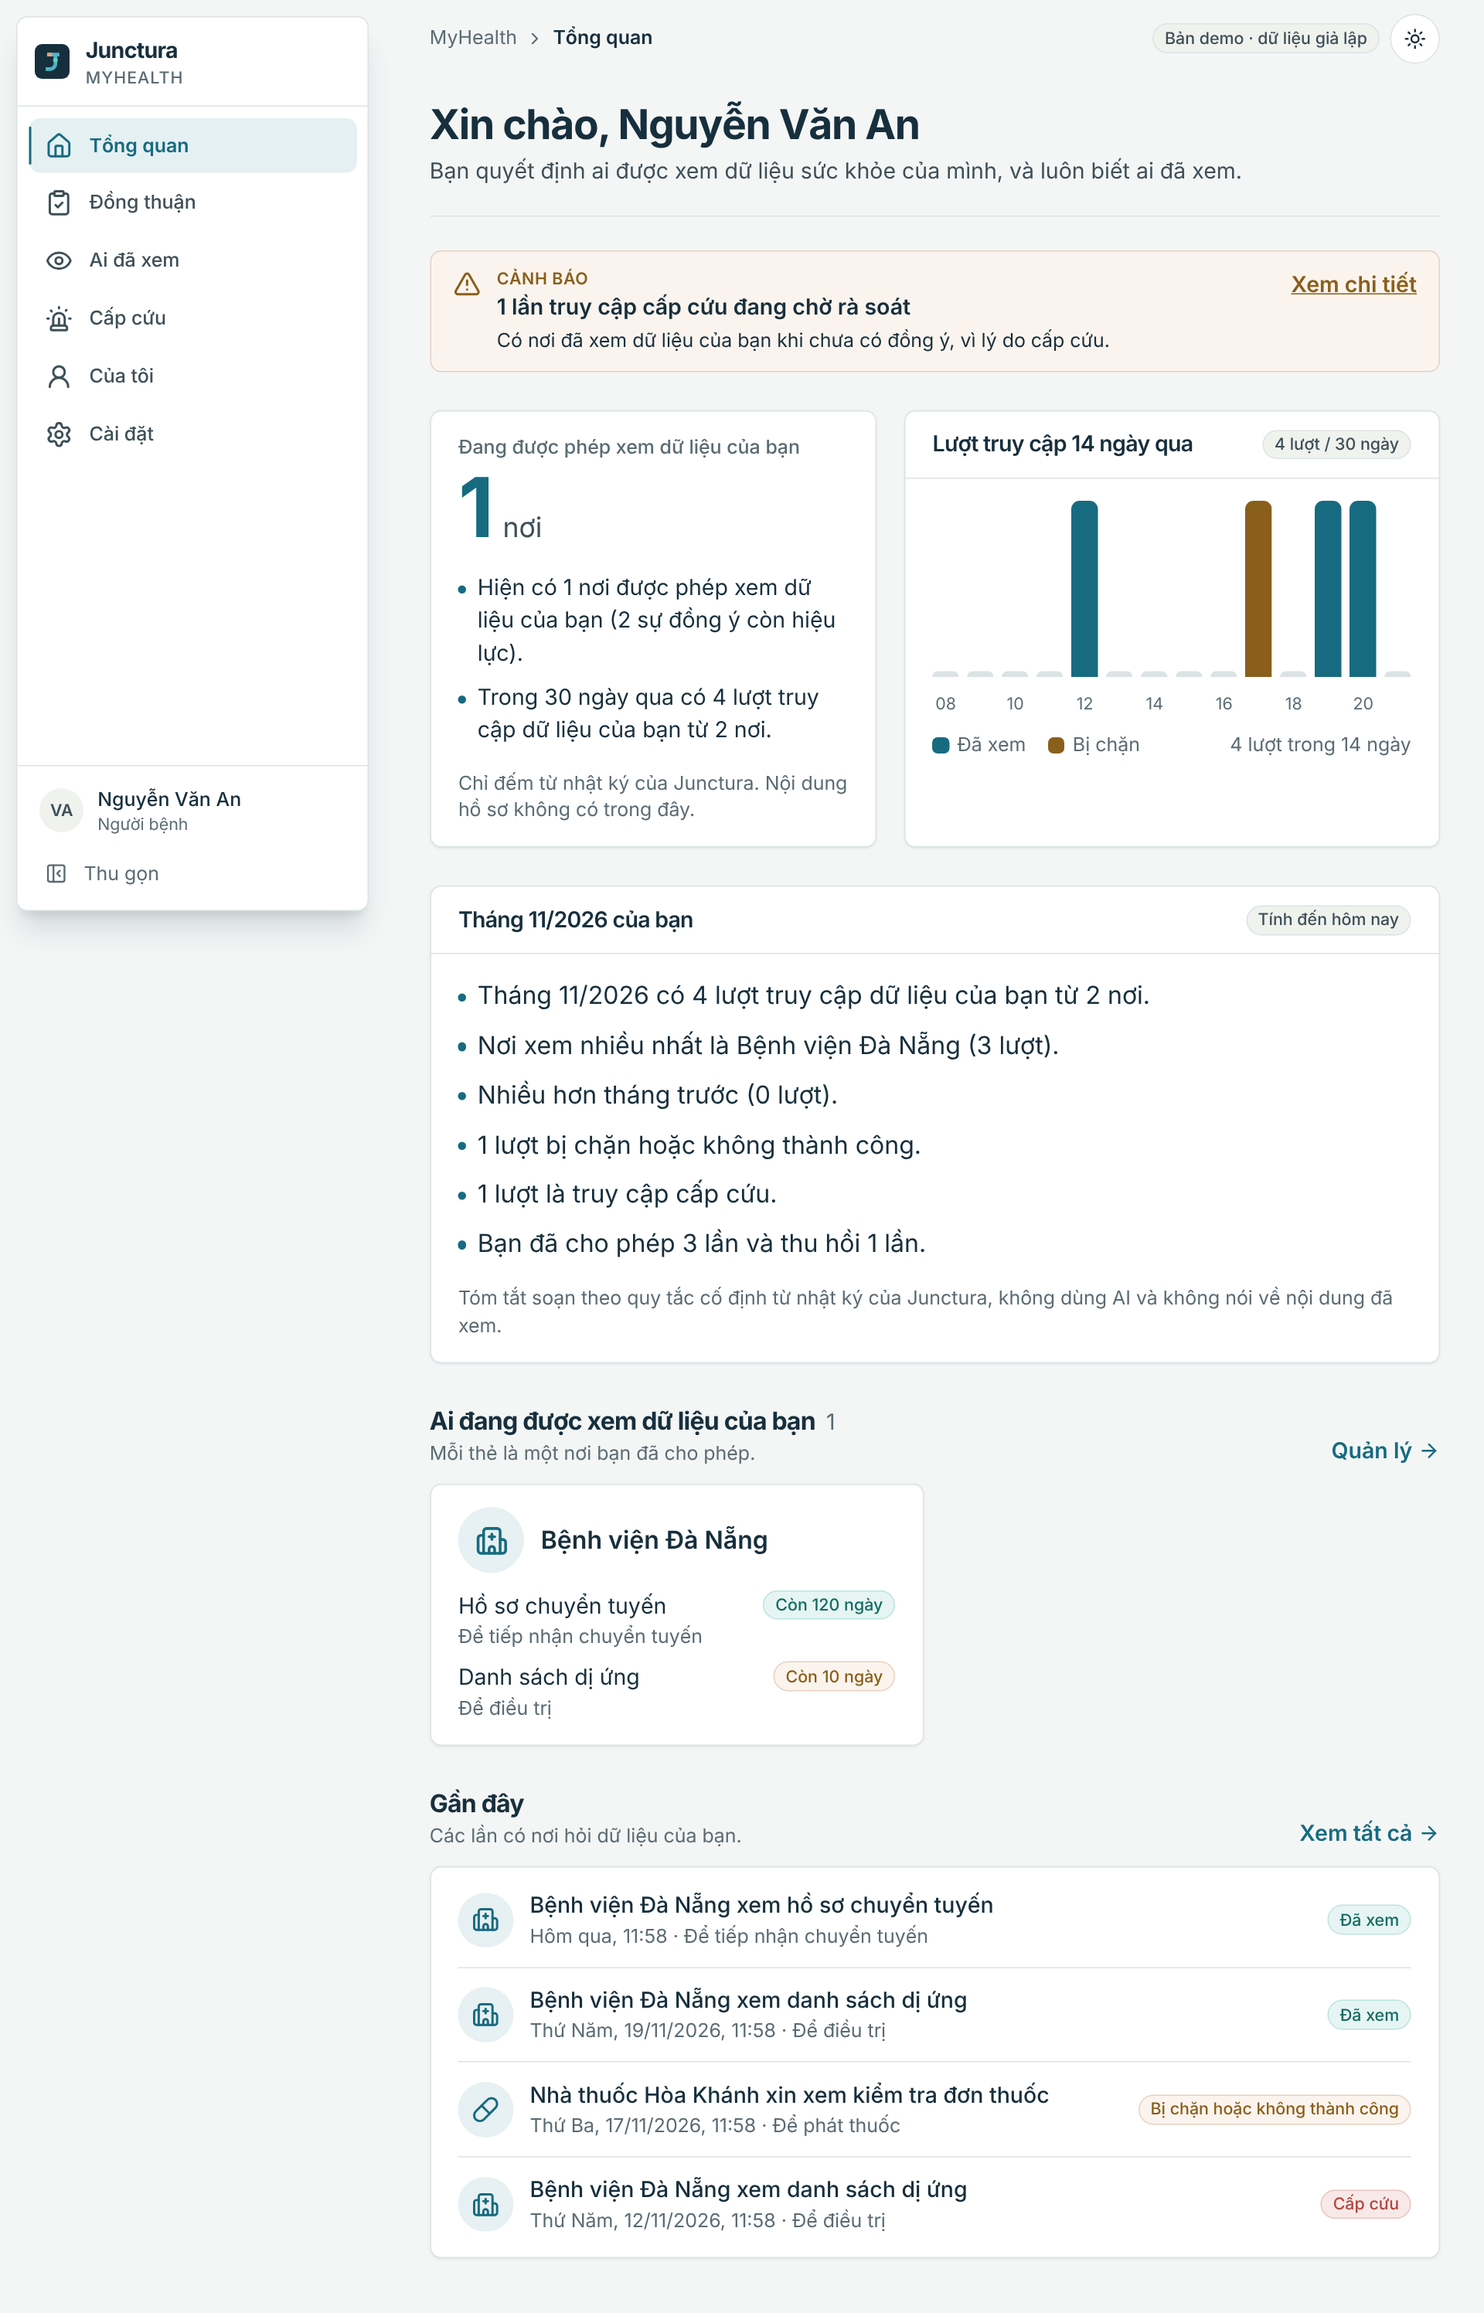
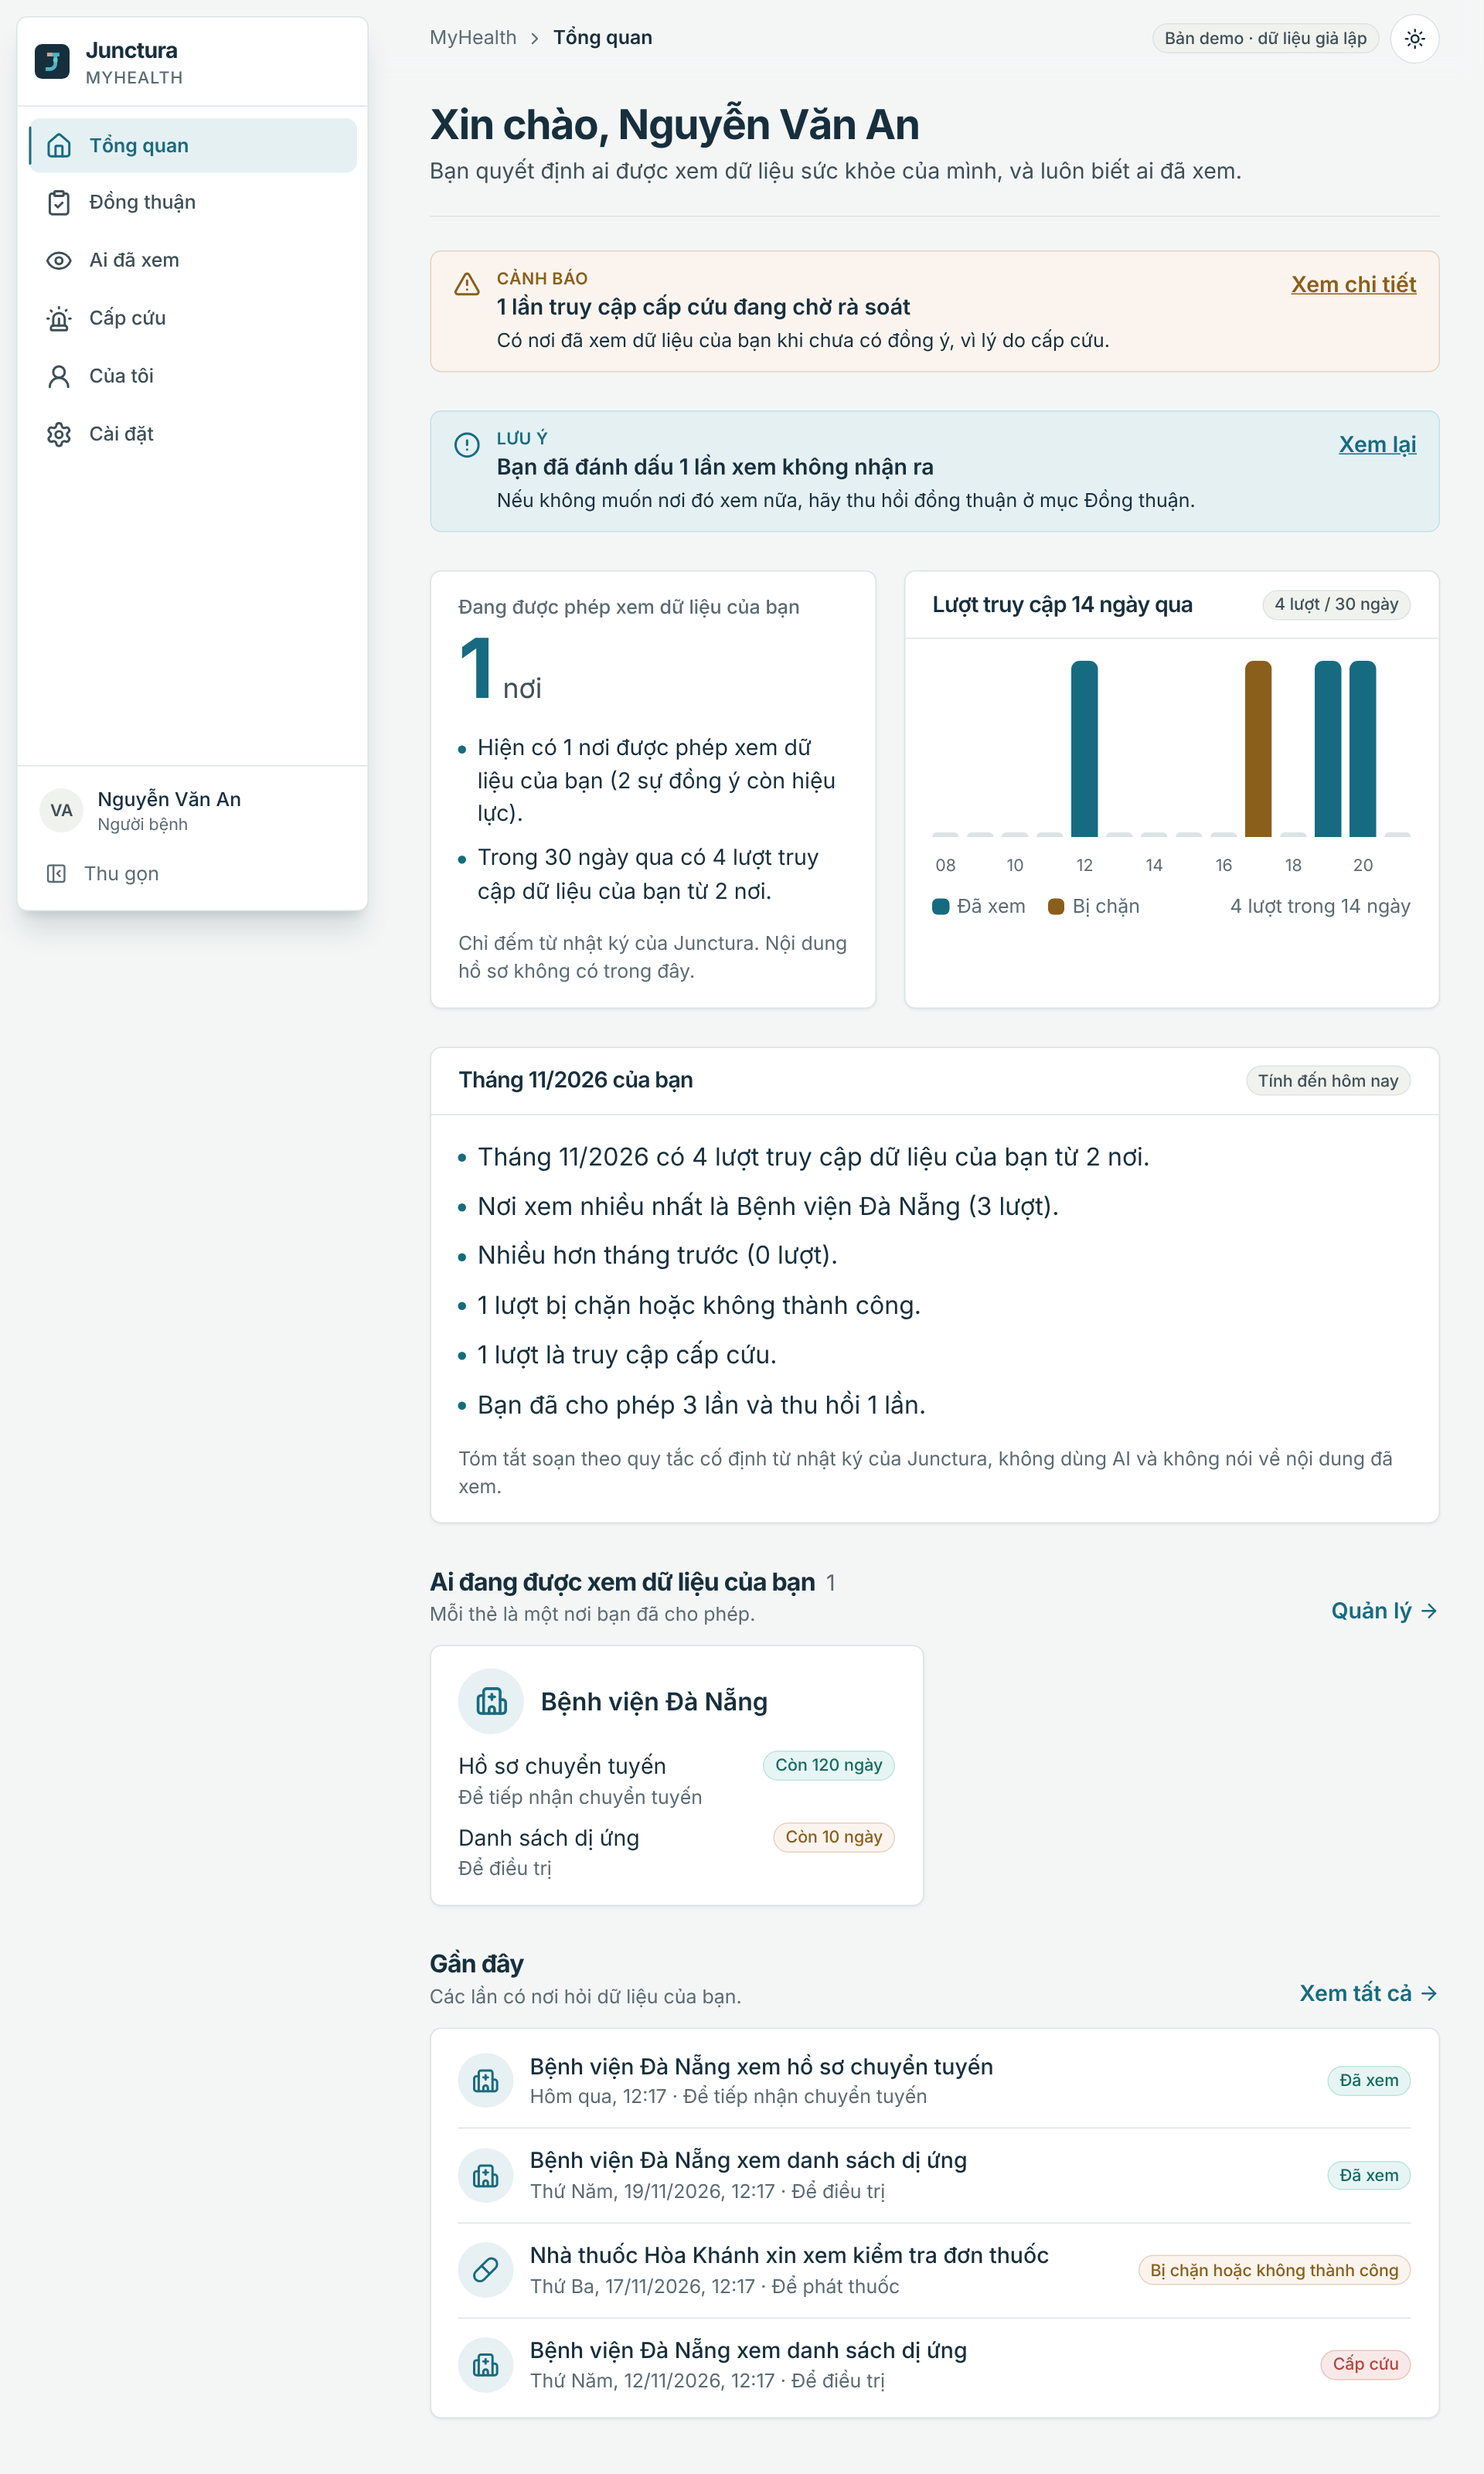
docs: describe marking unknown looks
README, CHANGELOG, roadmap and refreshed Overview and Access screenshots.

diff --git a/CHANGELOG.md b/CHANGELOG.md
@@ -11,6 +11,10 @@ All notable changes to Junctura MyHealth are recorded here. The format follows
 
 ### Added
 
+- **Mark a look you do not recognise** on Who has looked: a button on each look, a "Đã đánh dấu" label, a hint to
+  revoke that place's consent (link to Consents) and a way to take the mark back. The Overview reminds how many looks
+  are marked. Marks are kept in the local SQLite per patient (only the log line's id), never sent to the place or to
+  Junctura. New `POST/DELETE /api/access/:id/flag`; only lines of the patient's own log can be marked.
 - **Pause everything** on Consents: one button revokes every active consent after a single confirmation that says how
   many consents and places it covers. A partial failure is reported ("revoked 2, 1 left") and can be retried.
 - **Renew** a consent that ends within 14 days: grants it again for 90 days, then revokes the old one. If granting fails
